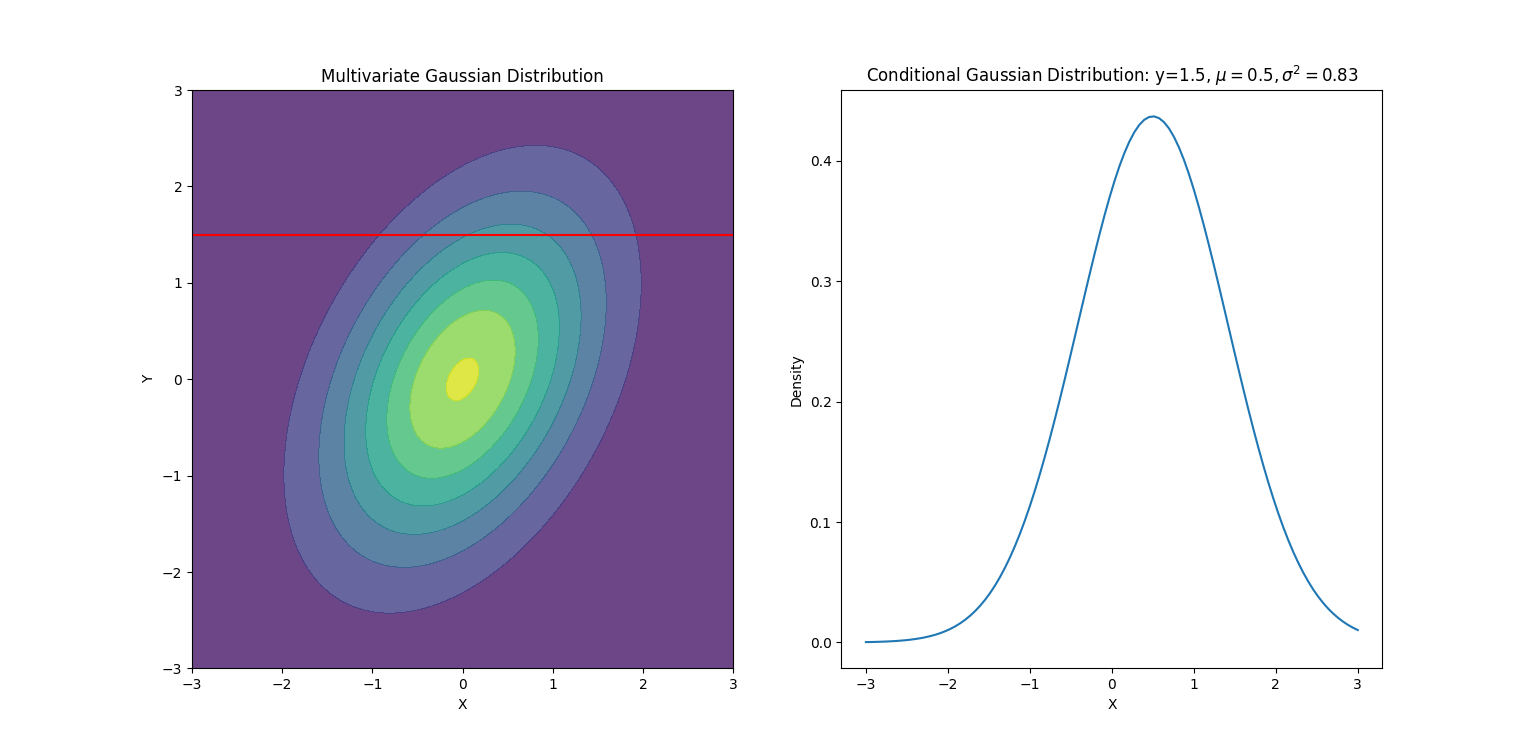
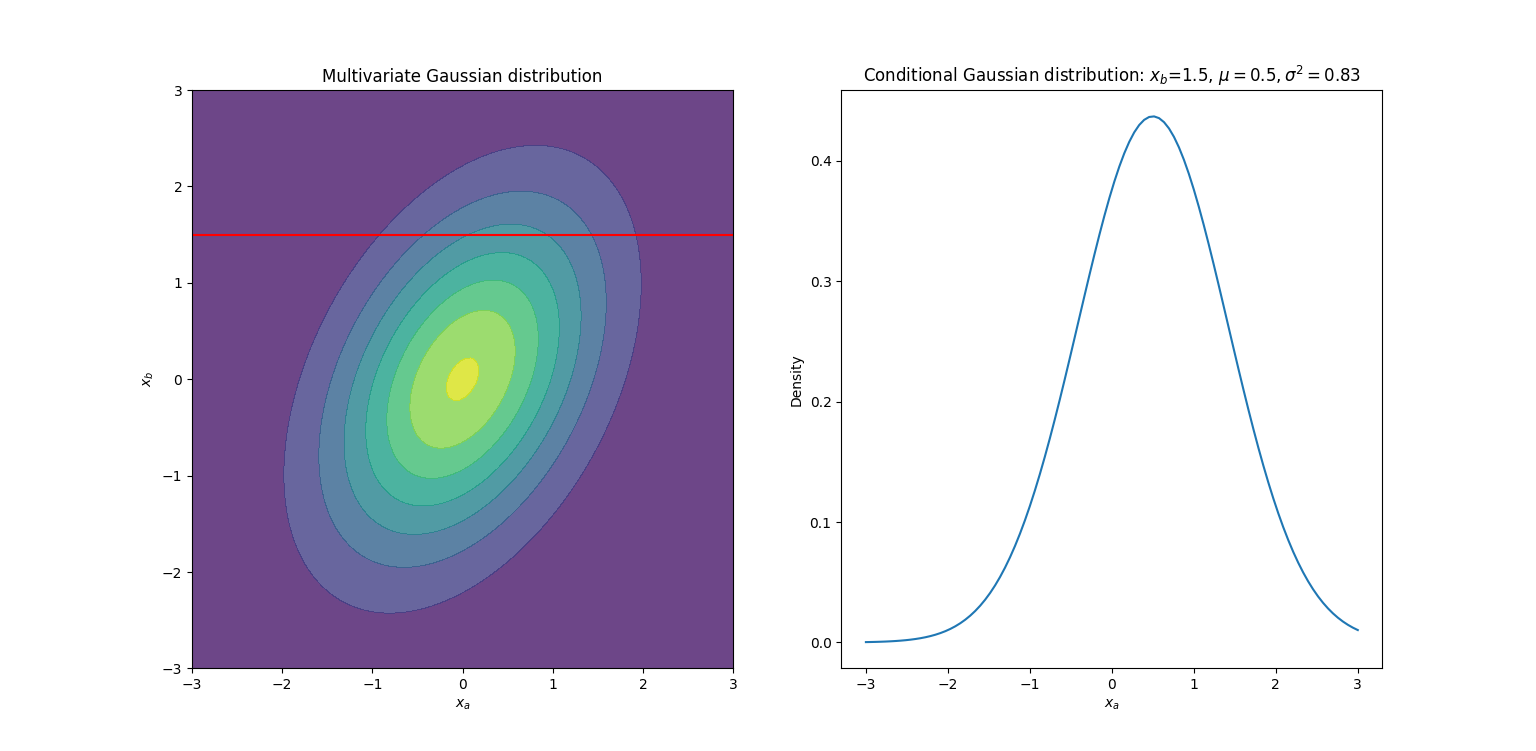
Update README about conditional gaussian distribution

Changed region(s): [[0.5625, 0.0919, 0.9062, 0.1225], [0.1875, 0.0919, 0.4062, 0.1225]]

diff --git a/probability_distribution/draw_conditional_gaussian_distribution.py b/probability_distribution/draw_conditional_gaussian_distribution.py
@@ -58,9 +58,9 @@ def main():
     cond_dist = fig.add_subplot(122)
 
     cnf.contourf(X, Y, density, alpha=0.8)
-    cnf.set_title("Multivariate Gaussian Distribution")
-    cnf.set_xlabel("X")
-    cnf.set_ylabel("Y")
+    cnf.set_title("Multivariate Gaussian distribution")
+    cnf.set_xlabel("$x_a$")
+    cnf.set_ylabel("$x_b$")
     cnf.plot([-3, 3], [1.5, 1.5], color="red")
 
     # Calculate conditional Gaussian distribution
@@ -71,12 +71,12 @@ def main():
     )
     cond_dist.plot(X[0], cond_density)
     cond_dist_title = (
-        "Conditional Gaussian Distribution: Y={0}, $\mu={1}, \sigma^2={2}$".format(
+        "Conditional Gaussian distribution: $x_b$={0}, $\mu={1}, \sigma^2={2}$".format(
             y, mu_a, round(var_a, 2)
         )
     )
     cond_dist.set_title(cond_dist_title)
-    cond_dist.set_xlabel("X")
+    cond_dist.set_xlabel("$x_a$")
     cond_dist.set_ylabel("Density")
 
 

diff --git a/probability_distribution/README.md b/probability_distribution/README.md
@@ -251,6 +251,34 @@ $$
 -\frac{1}{2}(x-\mu)^\intercal\sigma^{-1}(x-\mu)=-\frac{1}{2}x^\intercal \sigma^{-1} x + x^\intercal \sigma^{-1}\mu+const \tag{24}
 $$
 
+$const$ is a term that is independent of x. If we take the general quadratic form and express it in the form on the right side of Eq(24), the coefficient matrix of the quadratic term of $x$ is equal to the inverse covariance matrix $\sigma^{-1}$, and the coefficient matrix of the linear term of $x$ and $\sigma^{-1}\mu$ are equal, the value of $\mu$ can be obtained.
+
+This procedure is applied to the conditional Gaussian distribution $p(x_a|x_b)$ whose quadratic form of the exponential part is Eq(23). The mean and variance of this conditional distribution are denoted by $\mu_{a|b}$ and $\sigma_{a|b}$ respectively. Consider $x_b$ as a constant and consider the functional dependence of $x_a$ on Eq(23). First, taking out all terms of second order for $x_a$, we obtain
+
+$$
+-\frac{1}{2}x_a^\intercal A_{aa}x_a \tag{25}
+$$
+
+From this equation, the variance of $p(x_a|x_b)$ immediately follows.
+
+$$
+\sigma_{a|b}=A_{aa}^{-1} \tag{26}
+$$
+
+Next, considering all linear terms for $x_a$ in Eq(23) and using the relation $A_{ba}^\intercal=A_{ab}$, we obtain
+
+$$
+x_a^\intercal (A_{aa}\mu_a-A_{ab}(x_b-\mu_b)) \tag{27}
+$$
+
+From the discussion of the general form (24), the coefficient of $x_a$ in this equation must be equal to $\sigma_{a|b}^{-1}\mu_{a|b}$. Using also Eq(26), the average is as follows
+
+$$
+\begin{align*}
+\mu_{a|b}&=\sigma_{a|b}(A_{aa}\mu_a-A_{ab}(x_b-\mu_b)) \\
+&=\mu_a-A_{aa}^{-1}A_{ab}(x_b-\mu_b) \tag{28}
+\end{align*}
+$$
 
 You can draw the conditional Gaussian distribution by running follow command.
 
@@ -258,7 +286,9 @@ You can draw the conditional Gaussian distribution by running follow command.
 python3 draw_conditional_gaussian_distribution.py
 ```
 
-<img src='images/conditional_gaussian_dist.png' width='600'>
+The lower right figure shows the conditional Gaussian distribution of $x_a$ when $x_b$ is 1.5.
+
+<img src='images/conditional_gaussian_dist.png' width='800'>
 
 <br></br>
 

diff --git a/README.md b/README.md
@@ -9,6 +9,8 @@ This repository provides implementations for a better understanding of [PRML](ht
 
 <img src='probability_distribution/images/dirichlet_dist.gif' width='600'>
 
+<img src='probability_distribution/images/gaussian_dist.gif' width='600'>
+
 <br></br>
 
 ## Reference
